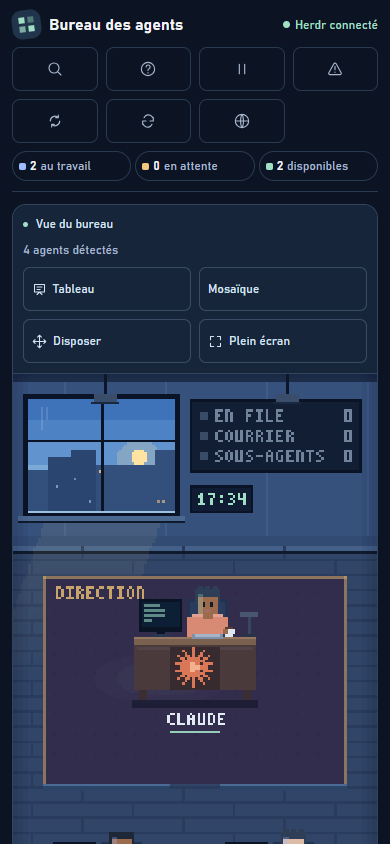
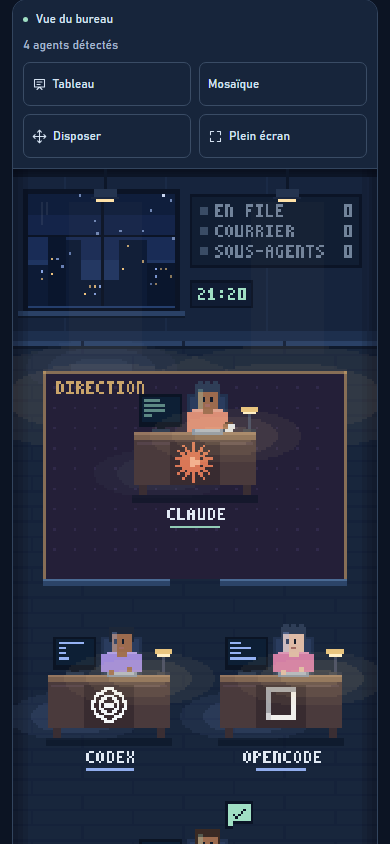
docs: regenerer les captures sans donnees personnelles et documenter les 10 agents

diff --git a/site/site.js b/site/site.js
@@ -57,7 +57,7 @@ const I18N = {
     'feat.relais.desc': 'Alerte discrète et neutre mise en file pour le chef dès qu\'un collaborateur termine sa tâche, l\'invitant à relire son panneau avant de lui confier la suite.',
 
     'feat.mosaique.title': 'Mosaïque multi-terminaux',
-    'feat.mosaique.desc': 'Basculez de la scène à une grille de 2 à 4 terminaux en direct avec recherche simultanée, consigne rapide et agrandissement à la demande.',
+    'feat.mosaique.desc': 'Basculez de la scène à une grille de 2 à 4 terminaux en direct avec recherche simultanée, consigne rapide et agrandissement à la demande (jusqu\'à 10 agents testés, 12 en envoi groupé, mosaïque 4).',
 
     'feat.reponses.title': 'Réponses lisibles en Markdown',
     'feat.reponses.desc': 'Extraction des réponses réelles de l\'agent, filtrées de tout contenu privé ou raisonnement brut, avec copie en un clic et fil de discussion complet.',
@@ -103,6 +103,8 @@ const I18N = {
     'gallery.emblemes.desc': 'Représentations pixel art 16x16 pour identifier chaque IA compatible Herdr.',
     'gallery.autonomie.title': 'Autonomie supervisée (NoBabysitter)',
     'gallery.autonomie.desc': 'Dialogue cadré par durée et plafond d\'échanges, arrêt d\'urgence et coordination par le chef.',
+    'gallery.10agents.title': 'Équipe de 10 agents',
+    'gallery.10agents.desc': 'Atelier à pleine charge avec 10 collaborateurs aux statuts variés (jusqu\'à 10 agents testés, 12 en envoi groupé, mosaïque 4).',
 
     // Installation
     'install.badge': 'Démarrage immédiat',
@@ -231,7 +233,7 @@ const I18N = {
     'feat.relais.desc': 'A discreet and neutral queued reminder for the lead whenever a teammate finishes work, prompting them to review the terminal before delegating next.',
 
     'feat.mosaique.title': 'Multi-terminal mosaic mode',
-    'feat.mosaique.desc': 'Switch from the scene to a live grid of 2 to 4 terminal tiles with unified text search, quick prompt dispatch, and single-tile expansion.',
+    'feat.mosaique.desc': 'Switch from the scene to a live grid of 2 to 4 terminal tiles with unified text search, quick prompt dispatch, and single-tile expansion (up to 10 agents tested, 12 in group broadcast, mosaic 4).',
 
     'feat.reponses.title': 'Readable Markdown answers',
     'feat.reponses.desc': 'Extraction of clean final responses, filtered from internal reasoning or private paths, with one-click copy and full thread history.',
@@ -277,6 +279,8 @@ const I18N = {
     'gallery.emblemes.desc': 'Dedicated 16x16 pixel art emblems to distinguish each supported AI tool.',
     'gallery.autonomie.title': 'Supervised Autonomy (NoBabysitter)',
     'gallery.autonomie.desc': 'Objective-driven cycle with duration and exchange caps, emergency stop, and coordination through the lead.',
+    'gallery.10agents.title': '10-Agent Team',
+    'gallery.10agents.desc': 'Full capacity workshop with 10 collaborators across varied statuses (up to 10 agents tested, 12 in group broadcast, mosaic 4).',
 
     // Installation
     'install.badge': 'Quick Start',

diff --git a/site/index.html b/site/index.html
@@ -165,7 +165,7 @@
           <div class="feature-card">
             <div class="feature-icon">☷</div>
             <h3 class="feature-title" data-i18n="feat.mosaique.title">Mosaïque multi-terminaux</h3>
-            <p class="feature-desc" data-i18n="feat.mosaique.desc">Basculez de la scène à une grille de 2 à 4 terminaux en direct avec recherche simultanée, consigne rapide et agrandissement à la demande.</p>
+            <p class="feature-desc" data-i18n="feat.mosaique.desc">Basculez de la scène à une grille de 2 à 4 terminaux en direct avec recherche simultanée, consigne rapide et agrandissement à la demande (jusqu'à 10 agents testés, 12 en envoi groupé, mosaïque 4).</p>
           </div>
 
           <div class="feature-card">
@@ -290,6 +290,14 @@
             <div class="gallery-caption">
               <h3 class="gallery-title" data-i18n="gallery.autonomie.title">Autonomie supervisée</h3>
               <p class="gallery-desc" data-i18n="gallery.autonomie.desc">Dialogue cadré par durée et plafond d'échanges, arrêt d'urgence et coordination par le chef.</p>
+            </div>
+          </div>
+
+          <div class="gallery-item" tabindex="0" data-lightbox="assets/10-agents.png">
+            <img class="gallery-thumb" src="assets/10-agents.png" alt="Scène à 10 agents dans l'atelier MyTeam">
+            <div class="gallery-caption">
+              <h3 class="gallery-title" data-i18n="gallery.10agents.title">Équipe de 10 agents</h3>
+              <p class="gallery-desc" data-i18n="gallery.10agents.desc">Atelier à pleine charge avec 10 collaborateurs aux statuts variés (jusqu'à 10 agents testés, 12 en envoi groupé, mosaïque 4).</p>
             </div>
           </div>
         </div>

diff --git a/README.md b/README.md
@@ -39,7 +39,7 @@ Un tableau de bord immersif et vivant en pixel art pour surveiller, lire et pilo
 
 MyTeam (le Bureau des agents) s'adresse aux développeurs, chercheurs et orchestrateurs qui font collaborer plusieurs agents d'IA en parallèle (Claude Code, Codex, Antigravity, OpenCode) sous le gestionnaire de sessions [Herdr](https://github.com/atoll92/herdr). Il transforme une mosaïque aride de terminaux en un atelier graphique vivant où chaque geste compte.
 
-- **Organisation d'équipe claire** : Le bureau Direction accueille le chef d'équipe, entouré de ses collaborateurs sur leurs postes dédiés.
+- **Organisation d'équipe claire** : Le bureau Direction accueille le chef d'équipe, entouré de ses collaborateurs sur leurs postes dédiés (jusqu'à 10 agents testés, 12 en envoi groupé, mosaïque 4).
 - **Délégations incarnées** : Quand le chef délègue une mission (`herdr agent prompt`), il effectue sa tournée physique dans la pièce pour déposer le dossier doré sur le bureau du collaborateur.
 - **File d'attente et gestion des quotas** : Différez vos consignes en toute sérénité pour les agents occupés ou en pause de limite, avec option prioritaire, bouton « Passer en tête », reprise automatique par consigne courte une minute après la levée d'une pause et relance différée.
 - **Autonomie supervisée (NoBabysitter)** : Lancez un cycle autonome cadré par un objectif (durée de 5 à 120 min, 3 à 60 échanges au plus). Le chef orchestre en étoile et délègue chaque étape ; le mode s'interrompt automatiquement sur échéance, plafond, boucle détectée, salle de crise ou redémarrage du serveur, sans jamais exécuter de push, suppression, installation, publication ni dialogue sans DrSmoke.
@@ -135,7 +135,7 @@ http://127.0.0.1:4317
 - **Pause de limite et chevalet « RETOUR »** : Si un outil atteint son plafond de requêtes ou de jetons, le fauteuil de l'agent se vide, sa lampe de bureau s'éteint, une veilleuse violette clignote et un chevalet blanc affiche l'heure exacte de reprise annoncée par l'outil.
 - **Salle de réflexion vitrée des sous-agents** : Pièce dédiée portant le libellé fixe « SALLE DE REFLEXION », où les sous-agents se réunissent avant de déposer leur dossier complété sur le bureau de leur agent. Le nombre exact de sous-agents actifs est visible au tableau mural, et la salle peut être repliée sur écran compact.
 - **Mode « Disposer »** : Le bouton « Disposer » permet de réorganiser librement les bureaux sur le sol à la souris ou aux flèches du clavier, et d'étirer le coin doré du bureau Direction pour l'agrandir. La touche Échap enregistre les positions.
-- **Mode Mosaïque (surveillance multi-terminaux)** : Le bouton commutable « Mosaïque » / « Vue scène » (aussi accessible via la palette `Ctrl+K`) remplace le décor par une mosaïque de 2 à 4 terminaux côte à côte. Les collaborateurs au travail s'affichent en tête de liste, avec bascule entre disposition « Grille 2×2 » et « Colonnes », sélecteur de tuiles si plus de 4 agents sont connectés, recherche textuelle réactive surlignée avec compteur de correspondances, envoi rapide de consignes (`Ctrl+Entrée`), bouton « Agrandir » ouvrant le poste individuel, et rafraîchissement économique (toutes les 3 s, suspension quand l'onglet est masqué, une lecture à la fois par tuile, préservation de la sélection de texte).
+- **Mode Mosaïque (surveillance multi-terminaux)** : Le bouton commutable « Mosaïque » / « Vue scène » (aussi accessible via la palette `Ctrl+K`) remplace le décor par une mosaïque de 2 à 4 terminaux côte à côte (jusqu'à 10 agents testés, 12 en envoi groupé, mosaïque 4). Les collaborateurs au travail s'affichent en tête de liste, avec bascule entre disposition « Grille 2×2 » et « Colonnes », sélecteur de tuiles si plus de 4 agents sont connectés, recherche textuelle réactive surlignée avec compteur de correspondances, envoi rapide de consignes (`Ctrl+Entrée`), bouton « Agrandir » ouvrant le poste individuel, et rafraîchissement économique (toutes les 3 s, suspension quand l'onglet est masqué, une lecture à la fois par tuile, préservation de la sélection de texte).
 - **Pause des animations et accessibilité** : Un bouton « Mettre en pause » permet de figer le canvas à tout moment. Si votre système active la réduction des mouvements (`prefers-reduced-motion`), la scène est automatiquement figée par défaut, tout en continuant d'être rafraîchie chaque minute pour suivre l'heure et la luminosité.
 
 ### Onglet Poste et terminal en direct

diff --git a/README.en.md b/README.en.md
@@ -39,7 +39,7 @@ An immersive and living pixel art dashboard to monitor, inspect, and direct your
 
 MyTeam · Agent desk is built for developers, researchers, and orchestrators running multiple AI agents in parallel (Claude Code, Codex, Antigravity, OpenCode, and others) managed by [Herdr](https://github.com/atoll92/herdr). It transforms a dry grid of terminal windows into a lively graphical workshop where every observable action counts.
 
-- **Clear team hierarchy**: The Direction desk hosts the team chief, surrounded by collaborators at their dedicated desks.
+- **Clear team hierarchy**: The Direction desk hosts the team chief, surrounded by collaborators at their dedicated desks (up to 10 agents tested, 12 in group broadcast, mosaic 4).
 - **Embodied task delegation**: When the chief delegates a prompt (`herdr agent prompt`), they walk across the room to place the golden folder directly on the collaborator's desk.
 - **Priority queue and quota management**: Safely queue instructions for busy agents or those on quota breaks, with high-priority flagging, a "Move to the front" button, 1-minute automatic resumption via a short prompt after a quota pause lifts, and deferred dispatch.
 - **Supervised autonomy (NoBabysitter)**: Start a scoped autonomous cycle defined by an objective (duration from 5 to 120 min, 3 to 60 exchanges at most). The chief coordinates in a star topology and delegates each step; the mode stops automatically on expiration, exchange cap, loop detection, crisis room, or server restart, and never runs a git push, deletion, installation, publication, or dialog response without DrSmoke.
@@ -135,7 +135,7 @@ http://127.0.0.1:4317
 - **Quota break and "RETOUR" sign**: When an agent hits its token or rate limit, their chair empties, desk lamp switches off, a purple standby light blinks, and a desktop easel displays the exact resume time reported by the tool.
 - **Glass reflection room for subagents**: A dedicated area labeled "SALLE DE REFLEXION" where subagents assemble before delivering their completed dossiers.
 - **"Disposer" layout mode**: The "Disposer" button allows freely moving desks across the floor using the mouse or keyboard arrow keys, or stretching the Direction desk's gold handle to resize it. Pressing Escape saves positions.
-- **Mosaic mode (multi-terminal monitoring)**: The "Mosaïque" / "Vue scène" toggle (also accessible via `Ctrl+K`) replaces the graphical scene with a grid of 2 to 4 live terminal tiles. Working agents are sorted first, with toggle between 2x2 grid and columnar layouts, tile selector when over 4 agents are connected, reactive text search with match counts, quick prompt dispatch (`Ctrl+Enter`), "Agrandir" button to expand a single station, and resource-conscious polling (3s interval, paused on hidden tab, one request per tile, preserving text selections).
+- **Mosaic mode (multi-terminal monitoring)**: The "Mosaïque" / "Vue scène" toggle (also accessible via `Ctrl+K`) replaces the graphical scene with a grid of 2 to 4 live terminal tiles (up to 10 agents tested, 12 in group broadcast, mosaic 4). Working agents are sorted first, with toggle between 2x2 grid and columnar layouts, tile selector when over 4 agents are connected, reactive text search with match counts, quick prompt dispatch (`Ctrl+Enter`), "Agrandir" button to expand a single station, and resource-conscious polling (3s interval, paused on hidden tab, one request per tile, preserving text selections).
 - **Animation pause and accessibility**: A "Mettre en pause" button freezes canvas rendering. If your operating system has `prefers-reduced-motion` enabled, animations are frozen by default while still updating every minute to reflect the time of day.
 
 ### Workstation tab and live terminal

diff --git a/docs/aide.md b/docs/aide.md
@@ -36,7 +36,7 @@ L'onglet « Équipe » centralise la gestion collective. La section « Courrier 
 L'onglet « Fichiers » vous permet de voir les fichiers récemment modifiés par l'agent ou de naviguer dans les dossiers de votre projet par copie ou déplacement sans suppression. L'onglet « Tâches » affiche l'avancement des cases réellement cochées dans les fichiers du projet (`TODO.md`) et les plans d'action publiés par les agents.
 
 ### Étape 6 : Mosaïque (surveillance multi-terminaux)
-Le bouton « Mosaïque » dans le cadre de la scène remplace le décor par une vue de 2 à 4 terminaux côte à côte, avec recherche textuelle surlignée, bascule entre grille 2×2 ou colonnes, et champ de consigne rapide (Ctrl+Entrée). Le bouton « Revenir à la scène » rétablit la vue atelier à tout moment.
+Le bouton « Mosaïque » dans le cadre de la scène remplace le décor par une vue de 2 à 4 terminaux côte à côte (jusqu'à 10 agents testés, 12 en envoi groupé, mosaïque 4), avec recherche textuelle surlignée, bascule entre grille 2×2 ou colonnes, et champ de consigne rapide (Ctrl+Entrée). Le bouton « Revenir à la scène » rétablit la vue atelier à tout moment.
 
 ### Étape 7 : Salle de crise (disjoncteur d'urgence)
 Le bouton sous clapet « Salle de crise » (raccourci d'urgence Ctrl+Maj+C) permet de réagir immédiatement en cas de dérive : il verrouille tous les envois directs (code HTTP 423), gèle la file d'attente et offre une modale de diagnostic calme pour ordonner une interruption polie d'un agent par la touche Échap, sans jamais recourir à un arrêt forcé (aucun kill).
@@ -150,7 +150,7 @@ Tous les outils pris en charge par Herdr bénéficient du socle universel de sur
 - Appuyez sur la touche Échap ou cliquez sur « Terminer » pour valider et enregistrer vos réglages.
 
 #### Mode Mosaïque (Surveillance multi-terminaux)
-- Le bouton « Mosaïque » dans le cadre de la scène (ou la commande « Mode mosaïque » de la palette Ctrl+K) remplace le décor en pixel art par une mosaïque modulaire de 2 à 4 terminaux côte à côte.
+- Le bouton « Mosaïque » dans le cadre de la scène (ou la commande « Mode mosaïque » de la palette Ctrl+K) remplace le décor en pixel art par une mosaïque modulaire de 2 à 4 terminaux côte à côte (jusqu'à 10 agents testés, 12 en envoi groupé, mosaïque 4).
 - Les collaborateurs au travail apparaissent automatiquement en tête de liste pour suivre leurs progrès sans délai.
 - Si l'équipe compte plus de 4 agents, une barre de sélection propose des cases à cocher pour choisir les agents à afficher (4 tuiles au maximum).
 - Bascule de disposition : boutons « Grille 2×2 » et « Colonnes » (sur smartphone, les tuiles se disposent en colonne unique adaptée à l'écran).
@@ -245,7 +245,7 @@ Cet onglet gère les échanges avec plusieurs agents, la file d'attente, la dire
 - Protection anti-double envoi : persistance atomique sur disque, clé d'idempotence et gel d'envoi en cas de doute.
 
 #### Message à plusieurs agents (Envoi groupé en deux clics)
-- Cochez les agents à qui vous souhaitez vous adresser (seuls les agents disponibles peuvent être sélectionnés).
+- Cochez les agents à qui vous souhaitez vous adresser (seuls les agents disponibles peuvent être sélectionnés, jusqu'à 10 agents testés, 12 en envoi groupé, mosaïque 4).
 - Le bouton « Cocher tous les disponibles » permet de sélectionner l'ensemble des agents libres en un seul clic.
 - Saisissez votre consigne commune dans la zone de texte.
 - Premier clic sur « Envoyer » (ou Ctrl+Entrée) : arme l'envoi et affiche clairement les noms de tous les destinataires.

diff --git a/docs/aide.en.md b/docs/aide.en.md
@@ -36,7 +36,7 @@ The "Team" tab centralizes collective workflows. The "Chief’s mail" section al
 The "Files" tab lets you inspect recently modified files or browse project folders via safe copy or move without deletion. The "Tasks" tab tracks real checked boxes in project Markdown files (`TODO.md`) and action plans published by agents.
 
 ### Step 6: Mosaic (multi-terminal monitoring)
-The "Mosaic" button on the canvas frame replaces the office decor with a view of 2 to 4 terminals side by side, with highlighted text search, toggle between "2×2 grid" or "Columns", and a quick prompt field (Ctrl+Enter). The "Scene view" button restores the office view at any time.
+The "Mosaic" button on the canvas frame replaces the office decor with a view of 2 to 4 terminals side by side (up to 10 agents tested, 12 in group broadcast, mosaic 4), with highlighted text search, toggle between "2×2 grid" or "Columns", and a quick prompt field (Ctrl+Enter). The "Scene view" button restores the office view at any time.
 
 ### Step 7: Crisis room (emergency circuit breaker)
 The flip-covered "Crisis room" button (emergency shortcut: Ctrl+Shift+C) enables instant reaction if things drift: it locks all direct sends (HTTP 423), freezes the queue, and opens a calm diagnostic modal to request a polite interruption of an agent via the Escape key, without ever resorting to forced process kills.
@@ -150,7 +150,7 @@ All 24 tools supported by Herdr benefit from universal monitoring and command or
 - Press Escape or click "Done" ("Terminer") to save and lock your layout.
 
 #### Mosaic Mode (Multi-Terminal Surveillance)
-- The "Mosaic" button (or "Tile mode" in Ctrl+K) replaces pixel art with a modular Mosaic of 2 to 4 live terminals side by side.
+- The "Mosaic" button (or "Tile mode" in Ctrl+K) replaces pixel art with a modular Mosaic of 2 to 4 live terminals side by side (up to 10 agents tested, 12 in group broadcast, mosaic 4).
 - Working agents appear at the top of the list for immediate visibility.
 - If more than 4 agents are connected, checkboxes allow choosing which 4 agents to display.
 - Layout toggle: "2×2 grid" and "Columns" buttons (on mobile, tiles stack into a single comfortable column).
@@ -245,7 +245,7 @@ This tab coordinates multiple agents, the queue, direction, and task completion 
 - Idempotence protection: atomic disk writes, idempotence keys, and frozen dispatch on uncertainty.
 
 #### Multi-Agent Broadcast (2-Click Armed Dispatch)
-- Check the agents you wish to instruct (only available agents can be checked).
+- Check the agents you wish to instruct (only available agents can be checked, up to 10 agents tested, 12 in group broadcast, mosaic 4).
 - "Tick all available" ("Cocher tous les disponibles") selects all ready agents in one click.
 - Type your shared instruction in the text area.
 - First click on "Send the instruction" ("Envoyer", or `Ctrl+Enter`): arms dispatch and displays all recipient names clearly.

diff --git a/LESSONS.md b/LESSONS.md
@@ -125,4 +125,6 @@ Ce fichier est la mémoire commune des agents. Chaque leçon vient d'une erreur 
 - ? Deja public par le depot ? et ? livre dans l'archive que quelqu'un dezippe ? ne sont pas la meme question. Un audit de paquet doit distinguer ce qui est publie de ce qui est remis en main propre, et nuancer son constat en consequence.
 - Un garde-fou qui ne devrait jamais sonner doit etre evalue aussi sur ses faux positifs : un outil qui crie 48 fois pour rien finit ignore, et c'est la vraie fuite qui passe ensuite.
 - Purge d'historique (18 octobre, images avec données personnelles) : un fichier binaire échappe à toute purge textuelle, donc chercher aussi les images (une capture ou une image de partage peut montrer un téléphone ou une société). Avec `git filter-branch --index-filter`, `git rm --cached` refuse les contenus non staged (utiliser `git update-index --force-remove`), `git log --all` montre encore les sauvegardes `refs/original` (vérifier avec `git log main`), et il faut refaire les tags (`--tag-name-filter cat`, tags récupérés avant) puis les pousser de force. Faire la réécriture dans un clone temporaire pour ne pas bloquer les agents. GitHub garde les anciens commits joignables par leur empreinte jusqu'à un nettoyage de leur côté (demande au support).
+- Captures et données personnelles dans les simulations : ne jamais coder en dur dans les scripts de capture Playwright un texte de pied de page ou d'enseigne issu d'une machine locale. Renvoyer explicitement des chaînes vides (`{ gauche: "", droite: "", enseigne: "" }`) pour masquer le pied de page (`hidden = true`) et laisser le panneau Direction neutre, garantissant qu'aucune donnée privée ne fuit dans les images publiques.
+- Enchaînement de captures Playwright : déclencher deux captures consécutives immédiates (`page.screenshot`) sur la même page peut provoquer un timeout sous Chromium. Prendre la capture une seule fois dans le dossier cible principal puis copier le binaire (`shutil.copyfile`) vers les autres emplacements (ex. `site/assets/`).
 

diff --git a/JOURNAL.md b/JOURNAL.md
@@ -67,3 +67,11 @@ Commits : b56585c, 825fa11 (rangs 1 et 6), 9560c5a, f01f10f, af523d9 (rangs 7 et
 
 
 - 18 octobre, soir : banc de mesure à dix agents documenté dans docs/performance.md (commande de reproduction, plafonds, limites connues). Durées mesurées : GET /api/state 9,7 ms, GET /api/discussion 7,7 ms, GET /api/todos 45,8 ms, cycle de sondage des pauses 5,1 ms avec 11 appels Herdr (1 liste + 10 panneaux). Rafale de 9 fins simultanées : 5 consignes créées (plafond de 5 par agent), 4 fins sans consigne. Trois correctifs vérifiés par le banc : cycle de sondage unique (e572828), une seule lecture de liste après la copie (20c7c68), relais hors verrou (96d7201). Suite complète : 433 tests, 427 réussis, 0 échec, 6 ignorés. Leçons ajoutées à LESSONS.md.
+
+## 18 octobre 2026, régénération des captures sans pied de page et plafonds à 10 agents (part Antigravity)
+
+- Régénération complète des 22 captures de `docs/captures/` et 12 images de `site/assets/` avec un pied de page vide (`{ gauche: "", droite: "", enseigne: "" }`) : pied de page masqué (`page-footer` caché), enseigne du bureau Direction neutre, purge intégrale de toute information personnelle.
+- Ajout des captures de charge à 10 agents : `docs/captures/20-ordinateur-10-agents.png` (1440x900), `docs/captures/21-telephone-10-agents.png` (390x844 avec disposition en 3 colonnes) et `site/assets/10-agents.png`.
+- Documentation factuelle des plafonds d'équipe : mention « jusqu'à 10 agents testés, 12 en envoi groupé, mosaïque 4 » (et son pendant anglais « up to 10 agents tested, 12 in group broadcast, mosaic 4 ») dans `README.md`, `README.en.md`, `docs/aide.md`, `docs/aide.en.md`, et sur le site (`site/index.html` et `site/site.js`).
+- Ajout de la carte galerie pour l'équipe de 10 agents dans `site/index.html` et traductions associées dans `site/site.js`.
+- Validation : 433 tests exécutés par `npm test` (427 réussis, 0 échec, 6 ignorés), 6 tests du site réussis, vérification visuelle Playwright sur ordinateur et mobile.

diff --git a/HANDOFF.md b/HANDOFF.md
@@ -33,6 +33,7 @@ Le bureau n'affiche que ce qui est réellement observé : états Herdr, journaux
 - TODO du bureau : le groupe « Demandes en cours » suit les consignes envoyées aux agents ; une demande n'est cochée qu'après une réponse terminée de l'agent.
 - Bouton « Autonomie » (NoBabysitter supervisé) : `src/autonomie.mjs`, `/api/autonomie`. Plafonds de durée et d'échanges, arrêt sur échéance, plafond, boucle, salle de crise ou redémarrage ; jamais de push, suppression, installation, publication ni réponse à une boîte de dialogue ; le chef décide, aucun agent n'écrit à un autre directement.
 - Reste : validation du chef pour le tag et la release 0.4.1. Entrée 0.4.1 prête dans CHANGELOG.md (FR et EN), site GitHub Pages vérifié en local avec Playwright, documentation d'aide (docs/aide.en.md) et README.en.md relus et harmonisés (parité stricte et vocabulaire chief/Mosaic unifié).
+- Captures et plafonds : l'ensemble des 22 captures de docs/captures/ et 12 de site/assets/ ont été régénérées avec un pied de page vide (garantissant l'absence de données personnelles) ; ajout des captures à 10 agents (20 et 21) ; plafonds factuels « jusqu'à 10 agents testés, 12 en envoi groupé, mosaïque 4 » documentés dans README FR/EN, docs/aide*.md et le site. Suite complète : 433 tests passés (427 réussis, 6 ignorés).
 
 ## État d'avancement au 17 octobre 2026 (Version 0.3.0 livrée et stabilisée)
 

diff --git a/docs/captures/LISEZMOI.md b/docs/captures/LISEZMOI.md
@@ -22,4 +22,6 @@ Ce dossier rassemble les captures candidates pour la présentation et la documen
 - `17-telephone-autonomie.png` : Mode Autonomie (NoBabysitter) adapté sur écran de téléphone (390x844).
 - `18-ordinateur-autonomie-en.png` : Fenêtre du mode Autonomie supervisée (NoBabysitter) sur ordinateur en anglais.
 - `19-telephone-autonomie-en.png` : Mode Autonomie supervisée sur téléphone en anglais.
+- `20-ordinateur-10-agents.png` : Vue d'ensemble sur ordinateur (1440x900) avec dix agents connectés aux états variés (travail, attente, pause de quota, disponible, chef en Direction).
+- `21-telephone-10-agents.png` : Scène adaptée sur téléphone (390x844) avec disposition en 3 colonnes pour 10 agents.
 
